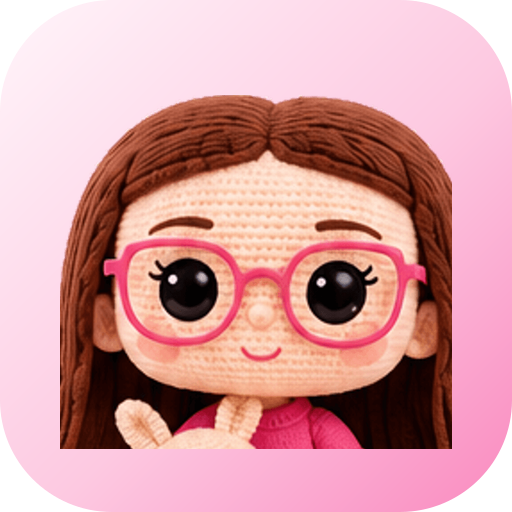
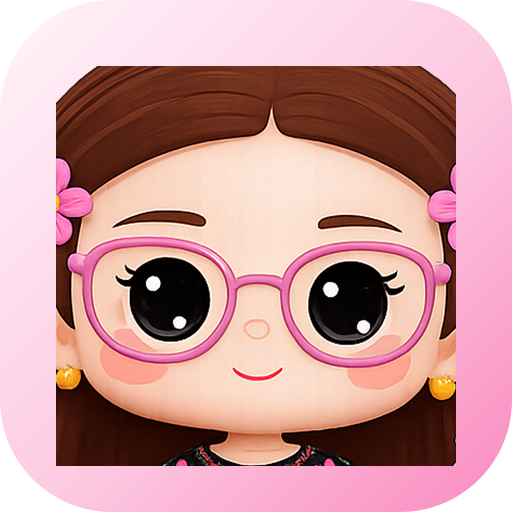
Personaje oficial nuevo y ajustes de promesas en la copia
- Personaje_HeroFINAL.png pasa a ser la ilustración oficial. Ya llega con
  fondo transparente, así que el pipeline se reduce a recortar el margen y
  escalar; se elimina toda la maquinaria de recorte por inundación.
- Se sirve como /marca/personaje.png (nombre nuevo para no arrastrar la
  caché del optimizador) en hero, CTA de contacto e icono de pestaña.
  Proporción actualizada a 900/1282.
- La nota flotante conserva letrero y frase; en móvil se apoya bajo el
  personaje y sólo flota a su izquierda en pantallas anchas, para no
  taparle el vestido bordado.
- Sobre mí: "3 años de experiencia" más cálido y general; "Diseños
  personalizados" incluye los personajes que sí se repiten; la atención
  aclara que se trata directamente con quien teje.
- Se retira de todo el sitio la promesa de mandar avances del proceso.
  Los ajustes ahora se cierran antes de tejer: el paso 04 pasa a ser
  "Cerramos los detalles" y las preguntas frecuentes lo explican.

diff --git a/src/lib/contenido.ts b/src/lib/contenido.ts
@@ -215,25 +215,25 @@ export const pasos = [
     numero: "01",
     titulo: "Cuéntanos tu idea",
     texto:
-      "Nos escribes por WhatsApp y nos mandas fotos, referencias y esos detalles que hacen especial a la persona o mascota.",
+      "Nos escribes por WhatsApp y nos mandas la foto de la persona, mascota o personaje, junto con los detalles que quieres que aparezcan.",
   },
   {
     numero: "02",
-    titulo: "Diseñamos tu propuesta",
+    titulo: "Recibes tu propuesta",
     texto:
-      "Te enviamos un boceto con los colores, el tamaño, el precio y el tiempo estimado. Ajustamos hasta que sea justo lo que imaginabas.",
+      "Te decimos qué se puede hacer con esa referencia, el tamaño, el precio y el tiempo estimado de entrega.",
   },
   {
     numero: "03",
-    titulo: "Comenzamos a tejer",
+    titulo: "Cerramos los detalles",
     texto:
-      "Empieza el trabajo a mano, punto por punto, con hilo de algodón de calidad y relleno hipoalergénico.",
+      "Confirmamos juntas colores, ropa y accesorios, y apartas tu lugar. Todos los ajustes se hacen en este punto, antes de empezar.",
   },
   {
     numero: "04",
-    titulo: "Revisamos detalles",
+    titulo: "Comenzamos a tejer",
     texto:
-      "Te compartimos avances en fotos. Si algo no coincide con lo que tenías en mente, lo corregimos antes de terminar.",
+      "Tu pieza se teje a mano, punto por punto, con hilo de algodón de calidad y relleno hipoalergénico. Cada figura lleva su tiempo.",
   },
   {
     numero: "05",
@@ -247,7 +247,7 @@ export const valores = [
   {
     titulo: "100% personalizado",
     texto:
-      "Nada es de catálogo. Cada pieza se diseña desde cero a partir de tus fotos y tus ideas.",
+      "Tu pieza se hace a partir de tus fotos y tus ideas, no de un catálogo.",
     icono: "chispa",
   },
   {
@@ -265,7 +265,7 @@ export const valores = [
   {
     titulo: "Atención cercana",
     texto:
-      "Hablas directamente con quien teje tu pieza, de principio a fin. Te compartimos avances y resolvemos dudas al momento.",
+      "Tratas directamente con quien teje tu pieza, de principio a fin. Sin intermediarios y sin bots.",
     icono: "chat",
   },
   {
@@ -275,9 +275,9 @@ export const valores = [
     icono: "regalo",
   },
   {
-    titulo: "Diseños exclusivos",
+    titulo: "Personajes favoritos",
     texto:
-      "Tu figura es tuya. No se replica ni se vende a nadie más con ese mismo diseño.",
+      "¿Un personaje que le encanta? También lo tejemos, con el mismo cuidado que una pieza a la medida.",
     icono: "corona",
   },
 ] as const;
@@ -316,7 +316,7 @@ export const preguntas = [
   },
   {
     p: "¿Cómo se hace un diseño personalizado?",
-    r: "Nos envías fotos de la persona, mascota o personaje junto con los detalles importantes: peinado, ropa, colores favoritos, accesorios. Con eso preparamos una propuesta con boceto, medidas y precio. Cuando la apruebas, comenzamos a tejer.",
+    r: "Nos envías fotos de la persona, mascota o personaje junto con los detalles importantes: peinado, ropa, colores favoritos, accesorios. Con esa referencia te confirmamos qué se puede lograr, el tamaño y el precio. Cuando lo apruebas y apartas tu lugar, comenzamos a tejer.",
   },
   {
     p: "¿Cuáles son las formas de pago?",
@@ -327,8 +327,8 @@ export const preguntas = [
     r: "Sí. Enviamos a toda la República por paquetería con número de guía para que puedas rastrear tu pedido. El costo depende del destino y del tamaño de la caja. En Motozintla puedes recoger directamente o coordinamos entrega local.",
   },
   {
-    p: "¿Puedo pedir cambios durante el proceso?",
-    r: "Claro. Te compartimos fotos de los avances y ahí podemos ajustar colores, accesorios o detalles. Los cambios de fondo (cambiar por completo el personaje o el tamaño) sí pueden modificar el precio y el tiempo de entrega.",
+    p: "¿Puedo pedir cambios?",
+    r: "Sí, y el mejor momento es antes de empezar a tejer: cuando revisamos la propuesta ajustamos colores, ropa, accesorios y tamaño hasta que sea lo que imaginabas. Una vez que la figura está en proceso ya no es posible modificarla, porque cada pieza se arma completa desde el primer punto. Por eso vale la pena mandarnos todas las referencias desde el principio.",
   },
   {
     p: "¿Qué materiales usan?",

diff --git a/src/components/secciones/Hero.tsx b/src/components/secciones/Hero.tsx
@@ -254,7 +254,7 @@ export function Hero() {
           style={quieto ? undefined : { y: yMascota }}
           className="relative z-0 mx-auto -mt-2 w-full max-w-[19rem] sm:max-w-[23rem] lg:mt-0 lg:max-w-none lg:justify-self-end"
         >
-          <div className="relative mx-auto aspect-[269/389] w-full lg:w-[clamp(20rem,30vw,27rem)]">
+          <div className="relative mx-auto aspect-[900/1282] w-full lg:w-[clamp(20rem,30vw,27rem)]">
             {/* Halo suave detrás de la mascota */}
             <div
               aria-hidden
@@ -267,8 +267,8 @@ export function Hero() {
               transition={{ duration: 1.2, delay: 0.4, ease: SUAVE }}
             >
               <Image
-                src="/marca/mascota.png"
-                alt="Amigurumi de la mascota de Amigurupi abrazando a su conejito tejido"
+                src="/marca/personaje.png"
+                alt="Personaje de Amigurupi con vestido bordado, sosteniendo un ovillo de estambre rosa y su aguja de crochet"
                 fill
                 priority
                 quality={88}
@@ -277,12 +277,14 @@ export function Hero() {
               />
             </motion.div>
 
-            {/* Nota manuscrita, anclada a la mascota */}
+            {/* Nota manuscrita. Sólo flota sobre el personaje en pantallas
+                anchas, donde hay sitio a su izquierda; en móvil se apoya
+                debajo para no taparle el vestido. */}
             <motion.figure
               initial={{ opacity: 0, y: 18, rotate: quieto ? 0 : 6 }}
               animate={{ opacity: 1, y: 0, rotate: 3.5 }}
               transition={{ duration: 1, delay: 1.05, ease: SUAVE }}
-              className="vidrio absolute -left-2 bottom-4 max-w-[13.5rem] rounded-[1.25rem] px-5 py-4 shadow-[var(--shadow-alta)] sm:-left-6 lg:-left-14 lg:bottom-12"
+              className="vidrio relative z-10 mx-auto -mt-8 max-w-[15rem] rounded-[1.25rem] px-5 py-4 shadow-[var(--shadow-alta)] sm:max-w-[16rem] lg:absolute lg:-left-16 lg:bottom-6 lg:mx-0 lg:mt-0 lg:max-w-[14rem] xl:-left-24"
             >
               <blockquote className="font-display text-[0.9375rem] italic leading-[1.5] text-tinta">
                 “Tu personaje, tu mascota, tu historia… tejido especialmente

diff --git a/src/components/secciones/Sobre.tsx b/src/components/secciones/Sobre.tsx
@@ -13,17 +13,17 @@ const promesas = [
   {
     titulo: `${marca.anios} años de experiencia`,
     texto:
-      "Cientos de horas de oficio que se notan en la tensión del punto y en el acabado de cada amigurumi.",
+      "Años de oficio y de cariño por el crochet, que se sienten al tener la pieza en las manos.",
   },
   {
-    titulo: "Diseños únicos",
+    titulo: "Diseños personalizados",
     texto:
-      "Cada encargo nace de cero. No repetimos piezas ni vendemos tu diseño a nadie más.",
+      "Hacemos tu pieza a la medida a partir de tus fotos, y también tus personajes favoritos de siempre.",
   },
   {
     titulo: "Atención personalizada",
     texto:
-      "Hablas directamente con el taller. Te compartimos avances y ajustamos hasta que quede como lo imaginabas.",
+      "Tratas directamente con quien teje tu amigurumi, sin intermediarios ni vendedores de por medio.",
   },
   {
     titulo: "Materiales de calidad",

diff --git a/src/components/secciones/Contacto.tsx b/src/components/secciones/Contacto.tsx
@@ -89,9 +89,9 @@ export function Contacto() {
                 </div>
               </div>
 
-              <div className="relative mx-auto aspect-[269/389] w-[13rem] sm:w-[15rem] lg:w-full lg:max-w-[17rem] lg:justify-self-end">
+              <div className="relative mx-auto aspect-[900/1282] w-[13rem] sm:w-[15rem] lg:w-full lg:max-w-[17rem] lg:justify-self-end">
                 <Image
-                  src="/marca/mascota.png"
+                  src="/marca/personaje.png"
                   alt=""
                   fill
                   loading="lazy"

diff --git a/README.md b/README.md
@@ -29,22 +29,28 @@ Los tres tonos de tinta pasan contraste AA (≥ 4.5:1) sobre `lienzo`.
 Tipografía: **Fraunces** (display, con ejes `SOFT`/`WONK` para el aire hecho a
 mano) e **Inter** (texto).
 
-## La mascota
+## El personaje
 
-`public/marca/mascota.png` se extrae de la ilustración de referencia con
-`scripts/build-assets.mjs`. El script **sólo borra fondo**: recorta, hace un
-relleno por inundación desde el borde con una paleta de referencia limitada a
-tonos pálidos y fríos (el rosa/marfil del fondo), descarta las formas sueltas
-que no son la mascota y reescala de forma uniforme con Lanczos.
+La ilustración oficial es `Personaje_HeroFINAL.png` en la carpeta de marca, y
+ya viene con fondo transparente. `scripts/build-assets.mjs` sólo le recorta el
+margen vacío y la escala de forma uniforme con Lanczos a `public/marca/
+personaje.png` (900×1282). Nunca se retocan colores, proporciones ni rasgos.
 
-Nunca se retocan colores, proporciones ni rasgos. Si hay que rehacerla:
+Aparece en el hero, en el llamado final de contacto y, recortada a la cara,
+como icono de la pestaña (`src/app/icon.png`, también generado por el script).
 
 ```bash
 node scripts/build-assets.mjs
 ```
 
-El mismo script convierte la galería a WebP y copia el video del hero.
-Las rutas de origen apuntan a la carpeta de marca `Amigurupi Web`.
+El mismo script convierte la galería a WebP, prepara el logo y copia el video
+del hero. Las rutas de origen apuntan a la carpeta de marca `Amigurupi Web`.
+
+> Si se reemplaza la ilustración, conviene cambiarle el nombre de archivo de
+> salida: el optimizador de imágenes de Next cachea por ruta y una imagen
+> nueva con el mismo nombre puede seguir sirviéndose vieja.
+> Recuerda actualizar también `aspect-[900/1282]` en `Hero.tsx` y
+> `Contacto.tsx` si cambian las proporciones.
 
 ## Contenido
 
